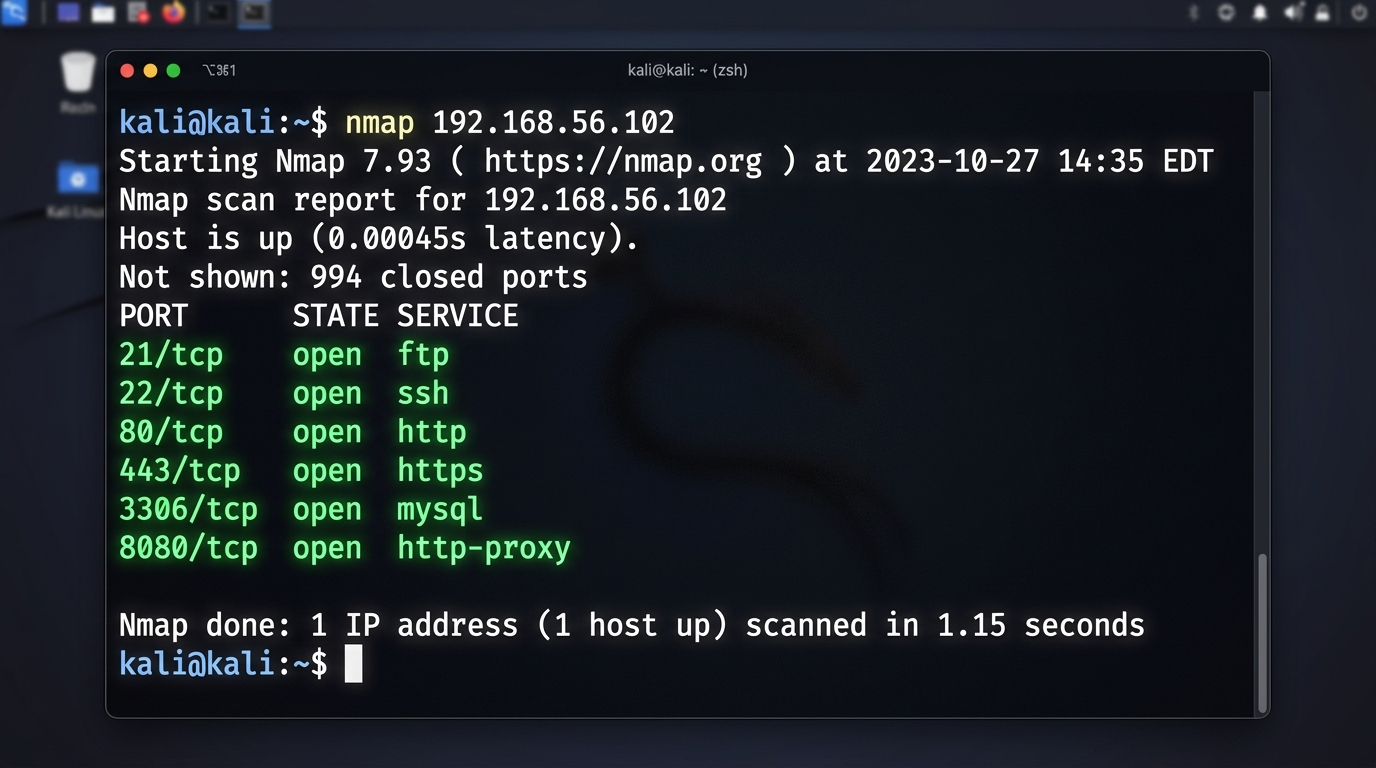
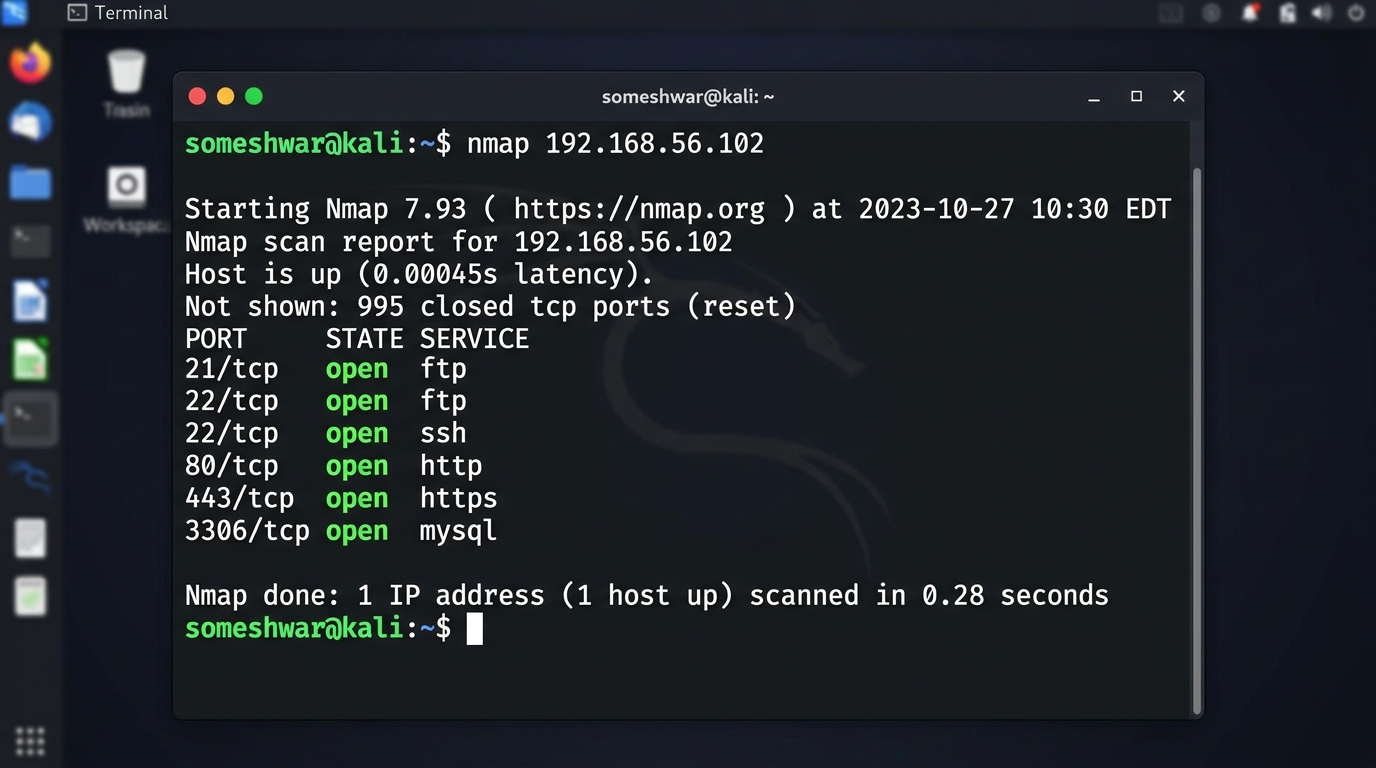
Update Task 1 terminal prompt username to someshwar@kali across screenshots, README, and scan results

diff --git a/CyberSecurity-Task1-Nmap-Network-Scanning/README.md b/CyberSecurity-Task1-Nmap-Network-Scanning/README.md
@@ -3,7 +3,7 @@
 ![Nmap Security Scanning Banner](screenshots/basic_scan.png)
 
 ## 📌 Project Overview
-This repository contains a structured network scanning project and security risk analysis performed using **Nmap (Network Mapper)** inside an authorized local Virtual Machine (VM) laboratory environment (`192.168.56.102`).
+This repository contains a structured network scanning project and security risk analysis performed using **Nmap (Network Mapper)** inside an authorized local Virtual Machine (VM) laboratory environment (`192.168.56.102`) logged in as user `someshwar@kali`.
 
 The primary goal of network scanning during the reconnaissance phase of ethical hacking and cybersecurity auditing is to discover live hosts, identify active open ports, detect running service versions, fingerprint operating systems, and evaluate security risk exposures.
 
@@ -65,21 +65,21 @@ nmap --version
 ### 1. Basic Network Scan
 Identifies the top 1,000 most common TCP ports and their status on the target IP address.
 ```bash
-nmap 192.168.56.102
+someshwar@kali:~$ nmap 192.168.56.102
 ```
 ![Basic Scan Terminal Output](screenshots/basic_scan.png)
 
 ### 2. Service Version Detection Scan (`-sV`)
 Probes open ports to determine exact application service names and version numbers.
 ```bash
-nmap -sV 192.168.56.102
+someshwar@kali:~$ nmap -sV 192.168.56.102
 ```
 ![Service Version Scan Output](screenshots/service_version_scan.png)
 
 ### 3. OS Detection Fingerprinting (`-O`)
 Sends TCP/UDP probes to examine OS stack behavior and determine the remote operating system.
 ```bash
-sudo nmap -O 192.168.56.102
+someshwar@kali:~$ sudo nmap -O 192.168.56.102
 ```
 ![OS Detection Scan Output](screenshots/os_detection_scan.png)
 
